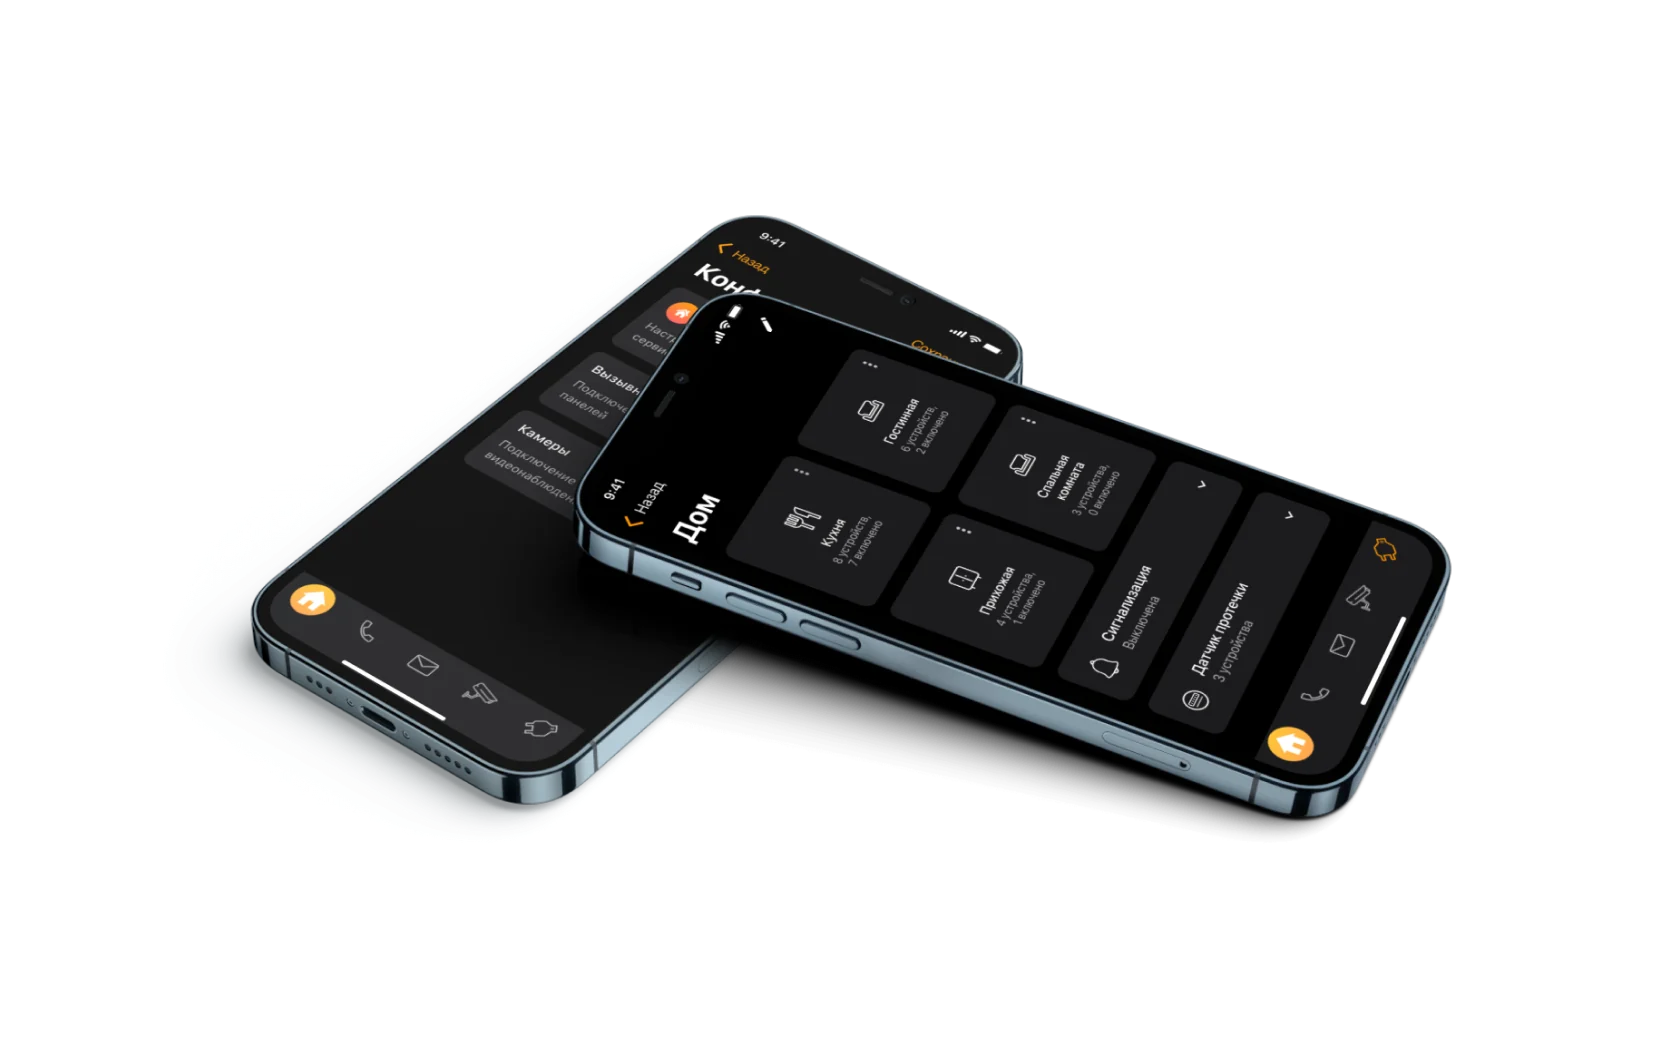
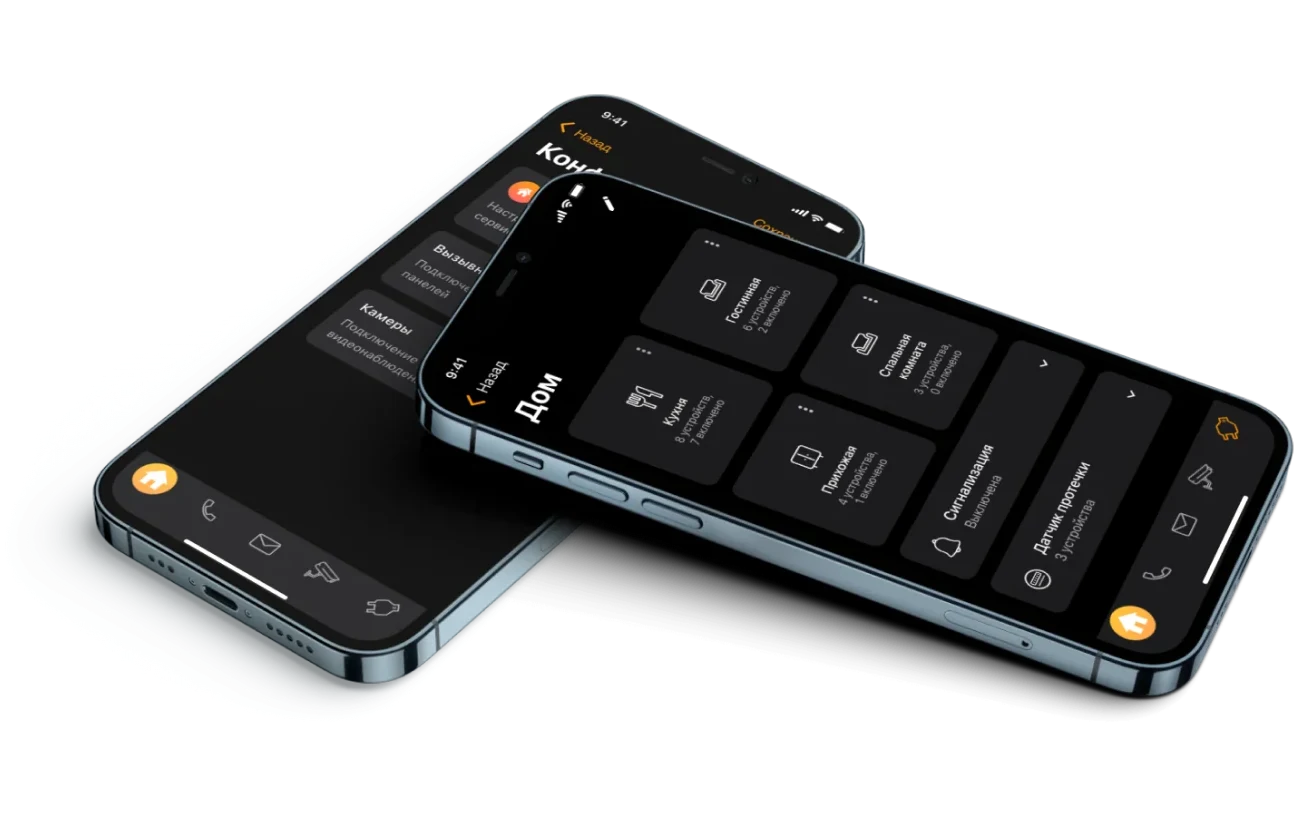
Главная: обложка предиктива без фона, телефоны Butler крупнее

Changed region(s): [[0.0308, 0.0918, 1.0, 0.8874]]

diff --git a/index.html b/index.html
@@ -90,7 +90,7 @@
       <li class="cases__item" data-reveal>
         <a class="case ln ln-l ln-r" href="cases/predictive-dialer/">
           <div class="case__cover">
-            <img class="case__img" src="img/cover-predictive.webp?v=2" alt="Мастер настройки кампании и&nbsp;рабочее место оператора со&nbsp;звонком из&nbsp;кампании в&nbsp;MightyCall" width="1715" height="1149" loading="lazy" decoding="async">
+            <img class="case__img" src="img/cover-predictive.webp?v=3" alt="Мастер настройки кампании и&nbsp;рабочее место оператора со&nbsp;звонком из&nbsp;кампании в&nbsp;MightyCall" width="1715" height="1148" loading="lazy" decoding="async">
           </div>
           <div class="case__tagrow ln ln-t ln-b">
             <span class="tag label-m">B2B SaaS</span>
@@ -157,7 +157,7 @@
       <li class="cases__item" data-reveal>
         <article class="case case--static ln ln-l ln-r">
           <div class="case__cover">
-            <img class="case__img" src="img/cover-butler.webp" alt="Два смартфона с приложением Butler для домофонии" width="1680" height="1056" loading="lazy" decoding="async">
+            <img class="case__img" src="img/cover-butler.webp?v=2" alt="Два смартфона с приложением Butler для домофонии" width="1300" height="817" loading="lazy" decoding="async">
           </div>
           <div class="case__tagrow ln ln-t ln-b">
             <span class="tag label-m">B2C Mobile</span>
